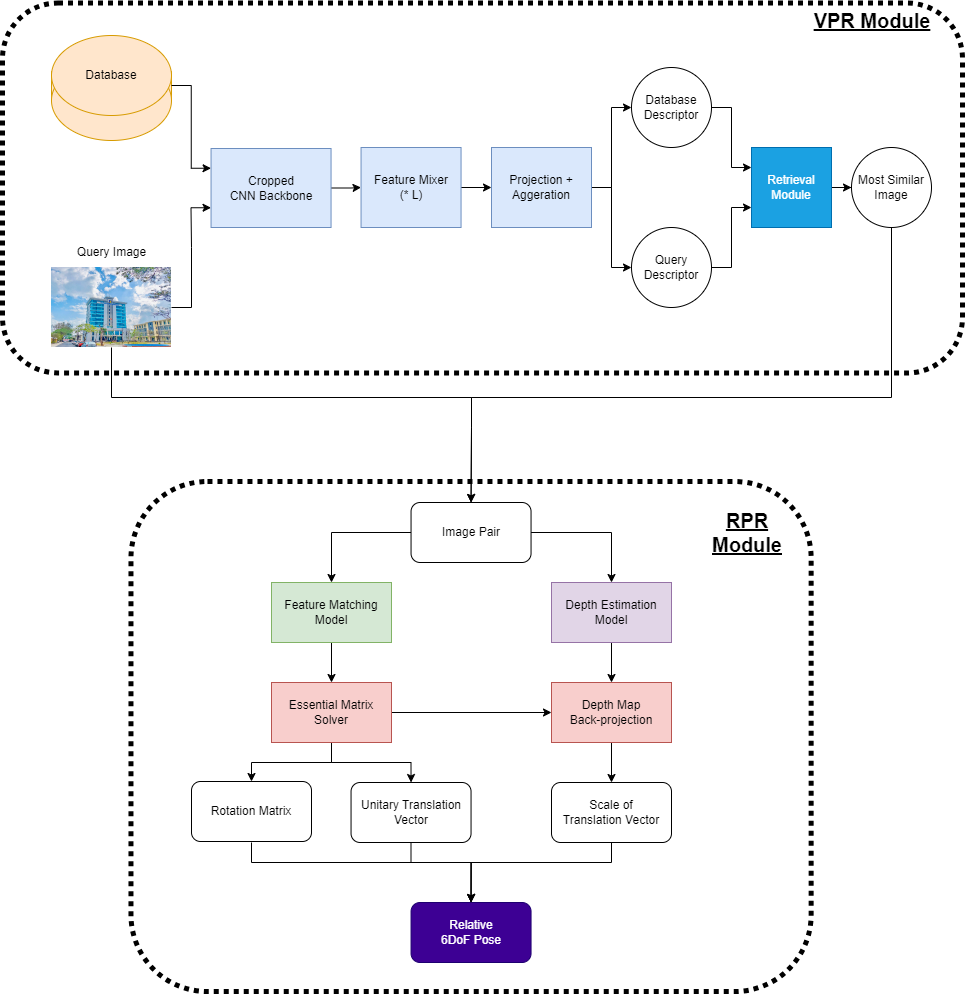
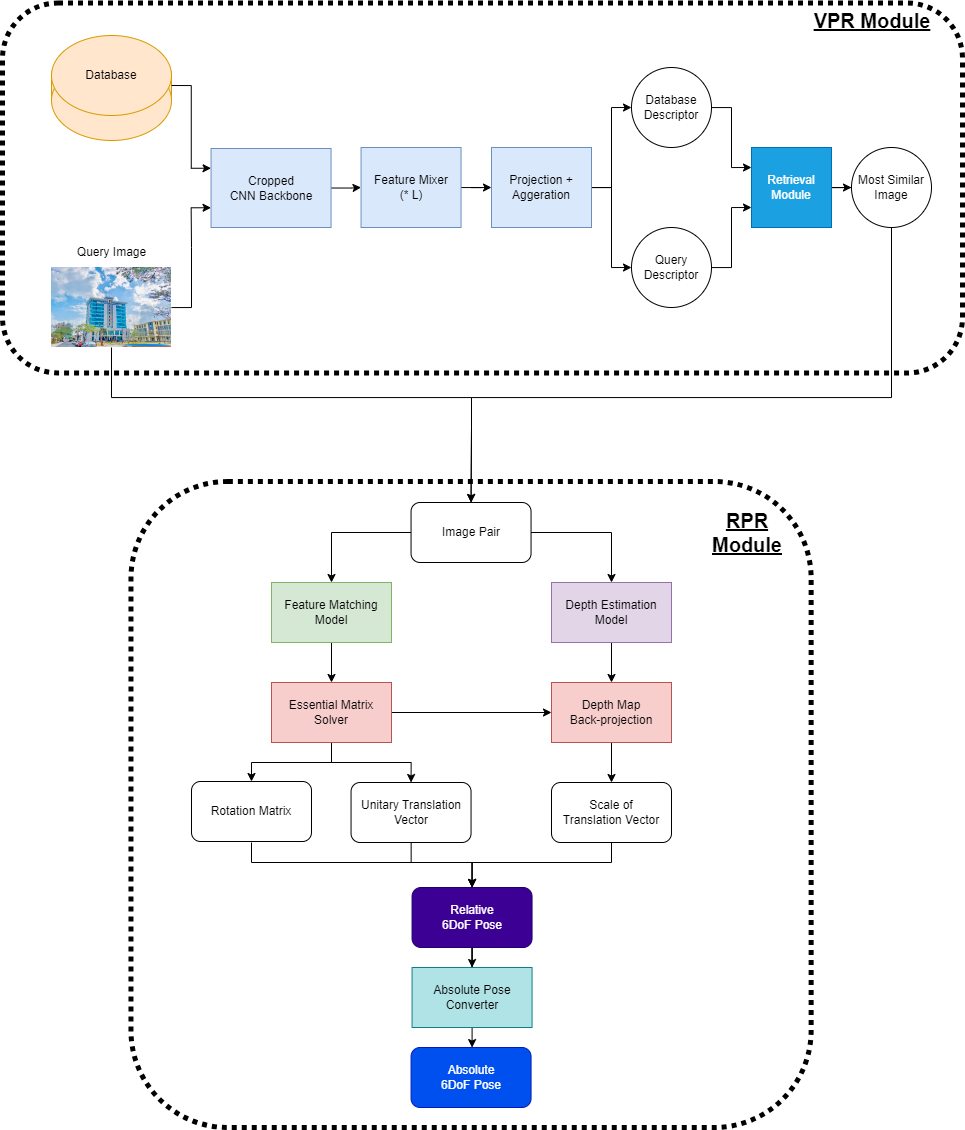
done part 3

diff --git a/chapters/3_Proposed.tex b/chapters/3_Proposed.tex
@@ -179,6 +179,34 @@ Gọi $I$ là ảnh mà người dùng chụp từ máy ảnh và sẽ được 
 
 Bước tiếp theo, mô hình tiếp tục truyền cả ảnh nhận vào $I$ và ảnh được truy xuất $I_0$ cho mô hình tương quan 2D - 2D của Map-free Relocalization \cite{arnold2022mapfree}. Với đầu vào là cặp ảnh $(I, I_0)$, những cặp đặc trưng tương quan giữa hai ảnh sẽ được xác định tương ứng với mỗi hình. Sau đó, ma trận thiết yếu $E$ giữa 2 ảnh sẽ được ước tính. Ma trận thiết yếu sau đó sẽ được phân giải thành ma trận thể hiện góc quay chênh lệch $R$ và một véc-tơ đơn vị độ dịch vị trí $\hat{t}$. Từ các cặp đặc trưng và độ sâu của ảnh, mô hình tiến hành một bước chiếu 3D để tính toán giá trị tỷ lệ $s$ của véc-tơ độ dịch vị trí. Cuối cùng, vị trí thực của máy ảnh sẽ được xác định bằng vị trí thực của ảnh tham khảo và độ lệch giữa ảnh tham khảo và ảnh truy vấn $(R,s*\hat{t})$.
 
+\subsection{Dữ liệu đầu vào và đầu ra}
+Mô hình sẽ nhận vào ảnh $I$, có định dạng là một ảnh có 3 kênh màu đỏ, xanh lá và xanh dương. Sau đó, ảnh $I$ sẽ được tiền xử lý, gồm các bước đưa về định dạng RGB, kích thước 320x320 và chuẩn hóa các điểm ảnh trên hình, trước khi được đưa vào mô hình chính.
+
+Định dạng đầu ra của mô hình sẽ gồm hai tập vector $R$ và $t$, lần lượt thể hiện góc quay và vị trí chụp ảnh trong không gian 3D. Cụ thể, hai vector sẽ có dạng:
+\begin{itemize}
+    \item \textbf{Vector góc quay $R$} sẽ có định dạng của một Quaternion, gồm 4 số là $(q_w,q_x,q_y,q_z)$. Quaternion có thể được dùng để biểu diễn góc quay trong không gian 3D và có thể dùng để thay thế ma trận xoay 3x3, nhằm có thể thể hiện và kết hợp các phép quay một cách dễ dàng hơn. Công thức biểu diễn một góc quay là 
+    $$
+    q=q_w + i*q_x + j*q_y + k*q_z
+    $$
+    với $q_w, q_x, q_y, q_z$ là các số thực với $i,j,k$ là những vector đơn vị trực giao lẫn nhau. Quaternion có thể được biến đổi theo dạng trục quay và góc quay, có thể được biểu diễn bởi hai thành phần là vector đơn vị biểu diễn trục của góc quay, $(\hat{x},\hat{y},\hat{z})$ và độ quay quanh trục, $\theta$. 
+    \begin{figure}[H]
+        \centering
+        \includegraphics[scale=0.4]{pics/Proposal/axis-angle.png}
+        \caption{Minh họa cách biểu diễn trục quay và góc quay \cite{quaternion}}
+    \end{figure}
+    Quaternion có thể được ước tính từ cách biểu diễn trục quay và góc quay theo công thức
+    $$
+    \begin{aligned}
+        & q_w=\cos \left(\frac{\theta}{2}\right) \\
+        & q_x=\hat{x} \sin \left(\frac{\theta}{2}\right) \\
+        & q_y=\hat{y} \sin \left(\frac{\theta}{2}\right) \\
+        & q_z=\hat{z} \sin \left(\frac{\theta}{2}\right)
+    \end{aligned}
+    $$
+    Từ công thức, tập các giá trị $q_w, q_x, q_y, q_z$ có độ lớn là 1, dẫn đến tập các giá trị này sẽ có 3 độ tự do, 3DoF.
+    \item \textbf{Vector vị trí $t$} sẽ có 3 giá trị là $t_x,t_y,t_z$ lần lượt thể hiện các giá trị kinh độ, vĩ độ và độ cao của vị trí chụp ảnh trong không gian thực tế. Vector thể hiện vị trí có cách biểu diễn đơn giản và dễ hiểu hơn so với góc quay. Ngoài ra, do biểu diễn không gian 3 chiều thực tế nên vector thể hiện vị trí sẽ có 3 độ tự do.
+\end{itemize}
+
 \subsection{Kiến trúc của mô hình đề xuất}
 \begin{figure}[H]
     \centering
@@ -186,12 +214,18 @@ Bước tiếp theo, mô hình tiếp tục truyền cả ảnh nhận vào $I$ 
     \caption{Minh họa mô hình đề xuất}
 \end{figure}
 
-\subsubsection*{Bộ phận nhận diện địa điểm trực quan - VPR}
-\textbf{Mô hình cơ sở CNN}
+\subsubsection{Bộ phận nhận diện địa điểm trực quan - VPR}
+\paragraph*{Mô hình cơ sở CNN}
 
 Khi ảnh truy vấn $I$ được đưa vào, mô hình cơ sở CNN sẽ được sử dụng để trích xuất ra những chi tiết mang thông tin cần thiết. Mô hình cơ sở sẽ được huấn luyện trên những tập dữ liệu hình ảnh đa dạng, nhằm có thể phát hiện ra những chi tiết quan trọng cho các tác vụ liên quan đến thị giác máy tính. Trong kiến trúc đề xuất, mô hình cơ sở sẽ được cắt ở giữa, nhằm thu được tập những bản đồ đặc trưng $F$ có định dạng $c \cdot h \cdot w$. Mỗi giá trị trên bản đồ đặc trưng $h \cdot w$ sẽ chứa thông tin mô tả của hình ảnh tại vùng đó. Những bản đồ đặc trưng là một cách biểu diễn hình ảnh nhỏ, nhẹ và thống nhất hơn trong điều kiện thay đổi về ánh sáng và góc nhìn, thay cho việc lưu trữ từng điểm ảnh. Mỗi bản đồ đặc trưng thuộc tập $F$ sau đó sẽ được làm phẳng thành 1D và đưa vào làm đầu vào cho những lớp tiếp theo.
 
-\textbf{Những lớp Feature Mixer}
+\begin{figure}[H]
+    \centering
+    \includegraphics[scale=0.75]{pics/Proposal/cropped-cnn.png}
+    \caption{Mô hình cơ sở xử lý ảnh để tạo ra tập các bản đồ đặc trưng \cite{alibey2023mixvpr}}
+\end{figure}
+
+\paragraph*{Những lớp Feature Mixer}
 
 Dữ liệu đầu vào sẽ là một tập các bản đồ đặc trưng 1D, có cấu tạo $c \cdot h*w$. Mỗi lớp Feature Mixer sẽ được cấu tạo từ 4 lớp, theo thứ tự là lớp chuẩn hóa đầu vào $NormLayer$, lớp kết nối đầy đủ $W_1$, lớp kích hoạt để thêm sự phi tuyến tính vào kết quả $\sigma$ và lớp kết nối đầy đủ thứ hai $W_2$. Đầu ra sẽ là kết quả của lớp kết nối đầy đủ thứ hai được nối tắt với dữ liệu đầu vào, có định dạng $h*w$. Trừ khi được nêu khác, $L=4$ lớp Feature Mixer sẽ được sử dụng trong mô hình. Lớp Feature Mixer sẽ được áp dụng cho mỗi bản đồ đặc trưng 1D và giữ nguyên cấu tạo của dữ liệu đầu vào. Vậy nên, kết quả đầu ra vẫn sẽ là bản đồ đặc trưng có dạng $h*w$, được ghép lại thành ma trận có dạng $c \cdot h*w$.
 
@@ -208,7 +242,13 @@ $$
 
 Lớp Feature Mixer sẽ giúp tích hợp thông tin toàn cục của ảnh, phân bố trên toàn bản đồ đặc trưng, vào các giá trị trên bản đồ đặc trưng. Vì vậy nên, định dạng của đầu vào và đầu ra của các lớp kết nối đầy đủ $W_1$ và $W_2$ sẽ giống nhau. Ngoài ra, trọng số của các lớp này sẽ được chia sẻ giữa các bản đồ đặc trưng nhằm tối ưu quá trình huấn luyện.
 
-\textbf{Lớp tổng hợp}
+\begin{figure}[H]
+    \centering
+    \includegraphics[scale=0.75]{pics/Proposal/mixer.png}
+    \caption{Cấu tạo của một lớp Feature Mixer \cite{alibey2023mixvpr}}
+\end{figure}
+
+\paragraph*{Lớp tổng hợp}
 
 Sau khi chạy qua $L$ lớp Feature Mixer và ghép lại với nhau, kết quả sẽ ở dạng $c \cdot h*w$. Do thông tin của kết quả thường sẽ được miêu tả trong không gian có số chiều lớn, lớp tổng hợp sẽ được sử dụng để thu nhỏ lại kết quả. Các lớp tổng hợp được chạy lần lượt là tổng hợp giữa các bản đồ đặc trưng $W_d$, và tổng hợp các giá trị trong mỗi bản đồ đặc trưng $W_r$. Lớp tổng hợp giữa các bản đồ đặc trưng sẽ thu gọn ma trận đặc trưng từ $c \cdot h*w$ thành $d \cdot h*w$. Sau đó, lớp tổng hợp các giá trị trên bản đồ đặc trưng sẽ trả về kết quả là $d \cdot r$.
 
@@ -221,28 +261,54 @@ $$
 
 Cuối cùng, kết quả sẽ được làm phẳng thành 1D và lấy chuẩn hóa theo L2 để tạo thành kết quả cuối cùng là giá trị mã hóa biểu diễn cho ảnh. Vector kết quả sẽ có dạng $d*r$.
 
-\textbf{Bộ phận truy vấn ảnh tương đồng}
+\begin{figure}[H]
+    \centering
+    \includegraphics[scale=0.75]{pics/Proposal/proj-agg.png}
+    \caption{Quá trình tổng hợp của mô hình \cite{alibey2023mixvpr}}
+\end{figure}
+
+\paragraph*{Bộ phận truy vấn ảnh tương đồng}
 
 Sau khi đã có được giá trị mã hóa biễu diễn cho ảnh truy vấn, mô hình sẽ tiến hành tìm kiếm trên tập dữ liệu ảnh miêu tả khu vực đang xét. Cơ chế tìm kiếm được sử dụng sẽ là tìm kiếm toàn diện, xét giá trị biểu diễn của từng ảnh. $k$ ảnh có độ tương đồng cao nhất với ảnh truy vấn sẽ được chọn để tạo thành các cặp ảnh là đầu ra của bước này.
 
-\textbf{Kết quả}
+\begin{figure}[H]
+    \centering
+    \includegraphics[scale=0.5]{pics/Proposal/query.png}
+    \caption[Kết quả của module VPR]{Ảnh truy xuất được từ ảnh truy vấn $I$ ban đầu, từ tập dữ liệu Niantic \cite{arnold2022mapfree}}
+\end{figure}
+
+\paragraph*{Kết quả}
 
 Qua quá trình mô phỏng lại bài toán nhận diện địa điểm trực quan, mô hình sẽ thuc được $k$ cặp ảnh có độ tương đồng cao, với một trong số đó là ảnh truy vấn ban đầu. Từng cặp ảnh trong $k$ cặp này sẽ được đưa vào bộ phận hồi quy vị trí tương đối tiếp theo.
 
-\subsubsection*{Bộ phận hồi quy vị trí tương đối - RPR}
-\textbf{Mô hình xác định cặp đặc trưng + ước tính độ sâu của ảnh}
+\subsubsection{Bộ phận hồi quy vị trí tương đối - RPR}
+\paragraph*{Mô hình xác định cặp đặc trưng + ước tính độ sâu của ảnh}
 
 Với dữ liệu đầu vào là cặp ảnh gồm ảnh truy vấn và ảnh tham khảo $(I,I_0)$, tại bước này, những cặp đặc trưng tương quan sẽ được xác định và vị trí của chúng sẽ được lưu lại trong 2 tập là $(kpts_0,ktps_1)$ và bản đồ chứa thông tin thông tin về độ sâu của mỗi ảnh cũng sẽ được sinh ra. Mô hình ghép đặc trưng được sử dụng sẽ là SuperPoint+SuperGlue \cite{sarlin2020superglue} đã trải qua quá trình huấn luyện Mô hình dự đoán độ sâu được sử dụng sẽ là mô hình DPT \cite{ranftl2021vision} được huấn luyện trên tập KITTI do phạm vi được sử dụng của mô hình sẽ là ở ngoài trời, trong khu vực thành thị \cite{arnold2022mapfree}. Dữ liệu trả về của 2 mô hình này sẽ là hai tập chứa vị trí của các điểm đặc trưng tương ứng và bản đồ độ sâu ước tính của mỗi hình.
 
-\textbf{Bộ phận xác định ma trận thiết yếu}
+\begin{figure}[H]
+    \centering
+    \includegraphics[scale=0.7]{pics/Proposal/matching.png}
+    \caption{Kết quả của quá trình xác định và ghép đặc trưng}
+\end{figure}
+
+\begin{figure}[H]
+    \centering
+    \includegraphics[scale=0.6]{pics/Proposal/depth.png}
+    \caption{Kết quả của quá trình ước tính độ sâu ảnh}
+\end{figure}
+
+\paragraph*{Bộ phận xác định ma trận thiết yếu}
 
 Dựa vào những cặp đặc trưng tương quan đã được xác định trong các tập $(kpts_0, kpts_1)$ và ma trận thông số của camera, ma trận thiết yếu $M$ sẽ được xác định qua giải thuật 5 điểm và vòng lặp MAGSAC++. Ma trận thông số của camera sẽ chứa các thông tin về tiêu cự của máy ảnh $f_x,f_y$ và tọa độ điểm chính của máy ảnh $c_x,c_y$, được sắp xếp thành ma trận như sau:
 $$
 c = \begin{bmatrix} f_x & 0 & c_x \\ 0 & f_y & c_y \\ 0 & 0 & 1 \end{bmatrix}
 $$ 
-Qua ma trận thiết yếu $M$, ma trận thể hiện độ lệch góc quay $R$ và vector thể hiện đơn vị độ lệch vị trí $\hat{t}$ giữa hai camera sẽ được xác định. Tập những cặp điểm tương quan thỏa ma trận thiết yếu $M$ cũng sẽ được trả về.
+Qua ma trận thiết yếu $M$, ma trận thể hiện độ lệch góc quay $R$ và vector thể hiện đơn vị độ lệch vị trí $\hat{t}$ giữa hai camera sẽ được xác định. Tập những cặp điểm tương quan thỏa ma trận thiết yếu $M$ cũng sẽ được trả về, được sử dụng để đánh giá độ đang tin cậy của dự đoán.
 
-\textbf{Bộ phận chiếu cặp điểm tương quan lên không gian 3D}
+
+
+\paragraph*{Bộ phận chiếu cặp điểm tương quan lên không gian 3D}
 
 Những cặp điểm tương quan thỏa ma trận $M$ sau đó sẽ được chiếu lên không gian 3D qua bản đồ độ sâu ảnh đã được sinh ra ở mỗi ảnh. Với mỗi cặp điểm $p_A,p_B$ đã được chiếu lên không gian 3D, mô hình sẽ tìm được một giá trị tỷ lệ $s$ cho $\hat{t}$ để làm giảm thiểu độ lệch của điểm $p_A$ khi được chiếu lên hệ tọa độ của camera thứ hai và điểm $p_B$. Giá trị $s$ tương ứng với mỗi cặp điểm $(p_A,p_B)$ có thể được xác định qua công thức:
 
@@ -254,6 +320,39 @@ $$
 
 Cuối cùng, tỷ lệ $s$ với số cặp điểm hợp lệ cao nhất sẽ được chọn làm kết quả cuối cùng. Một cặp điểm sẽ được xem như hợp lệ khi khoảng cách sai lệch giữa hai điểm 3D sau khi chiếu nhỏ hơn một ngưỡng nhất định, ở đây được xác định là 10cm. Vòng lặp RANSAC sẽ được sử dụng để bỏ những trường hợp ngoại lệ.
 
-\textbf{Kết quả}
+Sau khi chạy qua những bước trên, mô hình sẽ thu về được các giá trị thể hiện độ lệch giữa vị trí và góc quay của cặp ảnh truy vấn và tham khảo dưới dạng ma trận độ lệch góc quay $R$ và vector độ lệch vị trí $s*\hat{t}$. Ma trận độ lệch góc quay $R$ sau đó sẽ được phân giải thành một Quaternion, được biểu diễn dưới dạng một tập 4 số là $(q^{\Delta}_w,q^{\Delta}_x,q^{\Delta}_y,q^{\Delta}_z)$ thể hiện góc quay trong không gian. Vector độ lệch vị trí sẽ có dạng bộ 3 số là $(t^{\Delta}_x,t^{\Delta}_y,t^{\Delta}_z)$. 
 
-Sau khi chạy qua những bước trên, mô hình sẽ thu về được các giá trị thể hiện độ lệch giữa vị trí và góc quay của cặp ảnh truy vấn và tham khảo dưới dạng ma trận độ lệch góc quay $R$ và vector độ lệch vị trí $s*\hat{t}$. Ma trận độ lệch góc quay $R$ sau đó sẽ được phân giải thành một Quaternion, được biểu diễn dưới dạng một tập 4 số là $(q_{\Delta w},q_{\Delta x},q_{\Delta y},q_{\Delta z})$ thể hiện góc quay trong không gian. Vector độ lệch vị trí sẽ có dạng bộ 3 số là $(t_{\Delta x},t_{\Delta y},t_{\Delta z})$. Từ hai tập 4 số này, mô hình đã biểu diễn được vị trí tương đối giữa hai ảnh. Khi biết được tọa độ chính xác của ảnh tham khảo, mô hình sẽ tính ra được tọa độ và góc quay chính xác của ảnh truy vấn và đưa ra kết quả cuối cùng là hai tập $(q_w,q_x,q_y,q_z)$ và $(t_x,t_y,t_z)$
+\paragraph*{Bộ phận chuyển đổi sang vị trí tuyệt đối}
+
+Từ hai tập 4 số này, mô hình đã biểu diễn được góc quay và vị trí tương đối giữa hai ảnh $(q^{\Delta},t^{\Delta})$. Khi biết được tọa độ chính xác của ảnh tham khảo $(q^{ref},t^{ref})$, mô hình sẽ tính ra được tọa độ và góc quay chính xác của ảnh truy vấn và đưa ra kết quả cuối cùng là hai tập $(q^{abs},t^{abs})$
+
+Để xác định được góc quay chính xác của ảnh truy vấn, mô hình biến đổi góc quay của ảnh tham khảo với độ lệch góc quay đã xác định được giữa hai ảnh theo công thức:
+
+$$
+\begin{aligned}
+    q^{abs} &= q^{\Delta} * q^{ref} \\
+    (q^{abs}_w,q^{abs}_x,q^{abs}_y,q^{abs}_z) &= (q^{\Delta}_w,q^{\Delta}_x,q^{\Delta}_y,q^{\Delta}_z) * (q^{ref}_w,q^{ref}_x,q^{ref}_y,q^{ref}_z) \\ \\
+    q^{abs}_w &=\left(q^{\Delta}_w q^{ref}_w-q^{\Delta}_x q^{ref}_x-q^{\Delta}_y q^{ref}_y-q^{\Delta}_z q^{ref}_z\right) \\
+    q^{abs}_x &=\left(q^{\Delta}_w q^{ref}_x+q^{\Delta}_x q^{ref}_w-q^{\Delta}_y q^{ref}_z+q^{\Delta}_z q^{ref}_y\right) \\
+    q^{abs}_y &=\left(q^{\Delta}_w q^{ref}_y+q^{\Delta}_x q^{ref}_z+q^{\Delta}_y q^{ref}_w-q^{\Delta}_z q^{ref}_x\right) \\
+    q^{abs}_z &=\left(q^{\Delta}_w q^{ref}_z-q^{\Delta}_x q^{ref}_y+q^{\Delta}_y q^{ref}_x+q^{\Delta}_z q^{ref}_w\right)
+\end{aligned}
+$$
+
+Để xác định được vị trí chính xác của ảnh truy vấn trong không gian thực, vị trí kinh độ, vĩ độ và độ cao của ảnh chụp có thể được xác định qua công thức:
+
+$$
+\begin{aligned}
+    t^{abs} &= t^{\Delta} + t^{ref} \\
+    (t^{abs}_x,t^{abs}_y,t^{abs}_z) &= (t^{\Delta}_x,t^{\Delta}_y,t^{\Delta}_z) + (t^{ref}_x,t^{ref}_y,t^{ref}_z) \\ \\
+    t^{abs}_x &= t^{\Delta}_x + t^{ref}_x \\
+    t^{abs}_y &= t^{\Delta}_y + t^{ref}_y \\
+    t^{abs}_z &= t^{\Delta}_z + t^{ref}_z \\
+\end{aligned}
+$$
+
+\paragraph*{Kết quả}
+
+Kết quả đầu ra của bộ phận này sẽ là hai tập số $(q^{abs},t^{abs})$ thể hiện vị trí và góc quay của ảnh truy vấn trong không gian 3D.
+
+Sau khi đã có được vị trí của ảnh $I$ khi so với tập $k$ ảnh tham khảo có độ tương đồng cao nhất, mô hình sẽ chọn ra kết quả cuối cùng dựa vào độ đáng tin cậy được xác định ở \textbf{Bộ phận xác định ma trận thiết yếu}. Dự đoán nào có số cặp điểm tương quan thỏa ma trận thiết yếu $M$ được chọn cao nhất sẽ được dùng làm dự đoán cuối cùng của mô hình.

diff --git a/chapters/1_Introduction.tex b/chapters/1_Introduction.tex
@@ -79,6 +79,11 @@ Dựa trên mô hình đã được đề xuất, nhóm sẽ tiến hành cải 
 \section{Phạm vi đề tài}
 Đề tài được thực hiện và thí nghiệm trên các tập dữ liệu ngoài trời với ảnh đầu vào được chụp từ máy ảnh nhằm thu được dữ liệu tham số nội tại với đầu ra là vị trí và hướng quay của người chụp. Độ chính xác của kết quả đầu ra được xác định trên đơn vị (cm, độ).
 \begin{itemize}
+    \item \textbf{Dữ liệu đầu vào và đầu ra}
+    \begin{itemize}
+        \item Dữ liệu đầu vào của mô hình sẽ là một ảnh truy vấn do người dùng chụp được và đưa vào mô hình để xử lý.
+        \item Dữ liệu đầu ra sẽ gồm hai vector $R$ và $t$, lần lượt thể hiện góc quay và vị trí chụp ảnh trong không gian. Vector $R$ thể hiện góc quay sẽ có định dạng của một Quaternion, $(q_w,q_x,q_y,q_z)$. Vector $t$ thể hiện vị trí của chụp ảnh trong không gian 3 chiều, có định dạng $(t_x,t_y,t_z)$.
+    \end{itemize}
     \item \textbf{Kết quả mong đợi}
     \begin{itemize}
         \item Đối với truy xuất ảnh, nhóm mong muốn cải thiện độ chính xác của những mô hình truy xuất ảnh đã được đề xuất trước đây.
